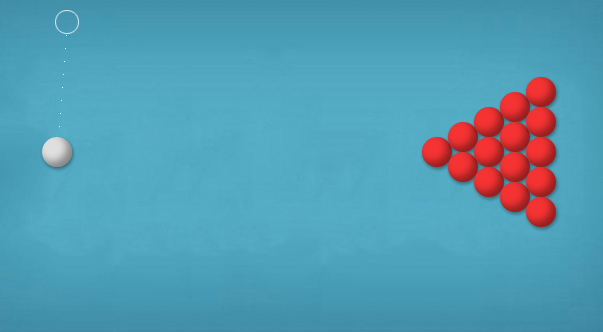
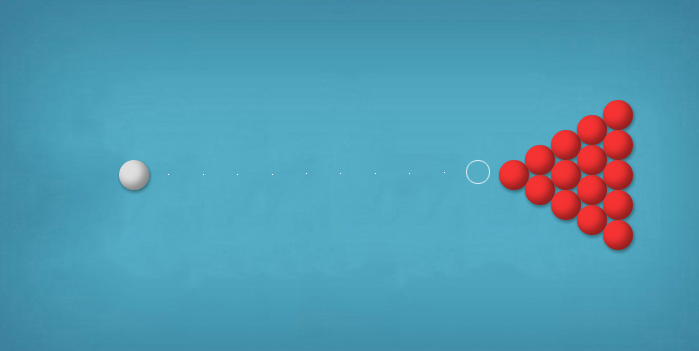
Site updated: 2017-03-03 18:21:51

diff --git a/css/main.css b/css/main.css
@@ -1135,7 +1135,7 @@ body {
   width: 4px;
   height: 4px;
   border-radius: 50%;
-  background: #ebf18a;
+  background: #6687ff;
 }
 .sidebar-nav {
   margin: 0;
